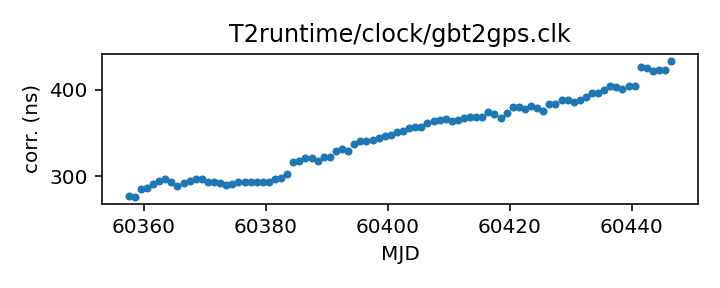
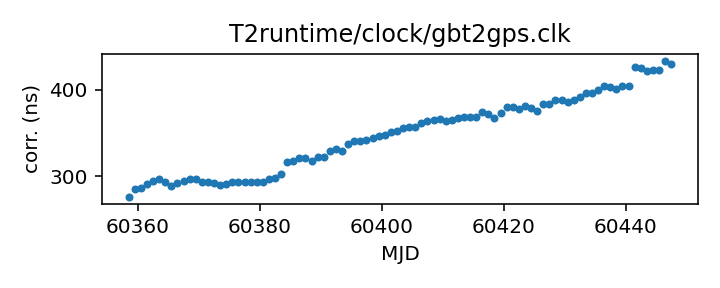
Routine gh-pages update from Github action Sat May 18 20:29:51 UTC 2024

diff --git a/status.md b/status.md
@@ -13,18 +13,18 @@ name of each clock file links to a page with more details.
 
 | Name | File | Corrections start | Corrections end | Last check date | Last check result 
 |:--- |:--- | --- | --- | --- |:--- 
-| [GPS to UTC](T2runtime/clock/gps2utc.clk.html) | `T2runtime/clock/gps2utc.clk` | 1993-01-01 MJD 48988.0 | 2024-04-29 MJD 60429.0 | 2024-05-17 | Unchanged 
-| [GPS to UTC (Combined Clock)](T2runtime/clock/gps2utc_cc.clk.html) | `T2runtime/clock/gps2utc_cc.clk` | 1993-01-01 MJD 48988.0 | 2024-04-29 MJD 60429.0 | 2024-05-17 | Unchanged 
-| [GPS to UTC (Corrected)](T2runtime/clock/gps2utc_c0p.clk.html) | `T2runtime/clock/gps2utc_c0p.clk` | 2010-12-29 MJD 55559.0 | 2024-04-29 MJD 60429.0 | 2024-05-17 | Unchanged 
-| [GBT](tempo/clock/time_gbt.dat.html) | `tempo/clock/time_gbt.dat` | 2000-12-31 MJD 51909.5 | 2024-05-16 MJD 60446.5 | 2024-05-17 | Updated 
-| [GBT (TEMPO2 converted from TEMPO)](T2runtime/clock/gbt2gps.clk.html) | `T2runtime/clock/gbt2gps.clk` | 2000-12-31 MJD 51909.5 | 2024-05-16 MJD 60446.5 | 2024-05-17 | Updated 
+| [GPS to UTC](T2runtime/clock/gps2utc.clk.html) | `T2runtime/clock/gps2utc.clk` | 1993-01-01 MJD 48988.0 | 2024-04-29 MJD 60429.0 | 2024-05-18 | Unchanged 
+| [GPS to UTC (Combined Clock)](T2runtime/clock/gps2utc_cc.clk.html) | `T2runtime/clock/gps2utc_cc.clk` | 1993-01-01 MJD 48988.0 | 2024-04-29 MJD 60429.0 | 2024-05-18 | Unchanged 
+| [GPS to UTC (Corrected)](T2runtime/clock/gps2utc_c0p.clk.html) | `T2runtime/clock/gps2utc_c0p.clk` | 2010-12-29 MJD 55559.0 | 2024-04-29 MJD 60429.0 | 2024-05-18 | Unchanged 
+| [GBT](tempo/clock/time_gbt.dat.html) | `tempo/clock/time_gbt.dat` | 2000-12-31 MJD 51909.5 | 2024-05-17 MJD 60447.5 | 2024-05-18 | Updated 
+| [GBT (TEMPO2 converted from TEMPO)](T2runtime/clock/gbt2gps.clk.html) | `T2runtime/clock/gbt2gps.clk` | 2000-12-31 MJD 51909.5 | 2024-05-17 MJD 60447.5 | 2024-05-18 | Updated 
 | [Jodrell Bank](T2runtime/clock/jb2gps.clk.html) | `T2runtime/clock/jb2gps.clk` | 2006-10-13 MJD 54021.4 | 2023-12-04 MJD 60282.0 | 2024-05-17 | Unchanged 
 | [Jodrell Bank Roach](T2runtime/clock/jbroach2jb.clk.html) | `T2runtime/clock/jbroach2jb.clk` | 2006-10-13 MJD 54021.4 | 2018-03-20 MJD 58197.6 | 2024-05-17 | Unchanged 
 | [Jodrell Bank DFB](T2runtime/clock/jbdfb2jb.clk.html) | `T2runtime/clock/jbdfb2jb.clk` | 2006-10-13 MJD 54021.4 | 2017-05-11 MJD 57884.0 | 2024-05-17 | Unchanged 
 | [Meerkat (observatory)](T2runtime/clock/mk2utc_observatory.clk.html) | `T2runtime/clock/mk2utc_observatory.clk` | 2019-01-01 MJD 58484.0 | 2024-04-24 MJD 60425.0 | 2024-05-17 | Unchanged 
-| [Leap seconds](tempo/clock/leap.sec.html) | `tempo/clock/leap.sec` | 1972-07-01 MJD 41499.0 | 2017-01-01 MJD 57754.0 | 2024-05-17 | Unchanged 
-| [UT1 table](tempo/clock/ut1.dat.html) | `tempo/clock/ut1.dat` | 1973-01-02 MJD 41684.0 | 2025-05-24 MJD 60819.0 | 2024-05-17 | Unchanged 
-| [UT1 table](T2runtime/clock/ut1.dat.html) | `T2runtime/clock/ut1.dat` | 1973-01-02 MJD 41684.0 | 2025-05-24 MJD 60819.0 | 2024-05-17 | Updated 
+| [Leap seconds](tempo/clock/leap.sec.html) | `tempo/clock/leap.sec` | 1972-07-01 MJD 41499.0 | 2017-01-01 MJD 57754.0 | 2024-05-18 | Unchanged 
+| [UT1 table](tempo/clock/ut1.dat.html) | `tempo/clock/ut1.dat` | 1973-01-02 MJD 41684.0 | 2025-05-24 MJD 60819.0 | 2024-05-18 | Unchanged 
+| [UT1 table](T2runtime/clock/ut1.dat.html) | `T2runtime/clock/ut1.dat` | 1973-01-02 MJD 41684.0 | 2025-05-24 MJD 60819.0 | 2024-05-18 | Unchanged 
 
 
 

diff --git a/T2runtime/clock/gbt2gps.clk.md b/T2runtime/clock/gbt2gps.clk.md
@@ -23,14 +23,13 @@ If questions arise about the conversion, contact Anne Archibald
 | Format | tempo2 |
 | Bogus last correction | False |
 | Clock file start | 2000-12-31 MJD 51909.5 |
-| Clock file end | 2024-05-16 MJD 60446.5 |
+| Clock file end | 2024-05-17 MJD 60447.5 |
 | Update interval (days) | 1 |
-| Last update attempt | 2024-05-17 |
+| Last update attempt | 2024-05-18 |
 | Last update result | Updated |
 
 Log entries from the last few update attempts:
 ```
-2024-04-20 20:29:22.594 - Validation failed: New version of T2runtime/clock/gbt2gps.clk clock corrections differ from old version where they overlap in 11 places
 2024-04-21 20:29:25.527 - Validation failed: New version of T2runtime/clock/gbt2gps.clk clock corrections differ from old version where they overlap in 11 places
 2024-05-10 20:29:32.718 - Validation failed: New version of T2runtime/clock/gbt2gps.clk clock corrections differ from old version where they overlap in 11 places
 2024-05-11 20:29:31.281 - Validation failed: New version of T2runtime/clock/gbt2gps.clk clock corrections differ from old version where they overlap in 11 places
@@ -40,12 +39,13 @@ Log entries from the last few update attempts:
 2024-05-15 20:30:39.614 - Validation failed: New version of T2runtime/clock/gbt2gps.clk clock corrections differ from old version where they overlap in 11 places
 2024-05-16 20:29:39.594 - Validation failed: New version of T2runtime/clock/gbt2gps.clk clock corrections differ from old version where they overlap in 11 places
 2024-05-17 20:29:38.159 - Updated
+2024-05-18 20:29:23.913 - Updated
 ```
 [Full log](https://raw.githubusercontent.com/ipta/pulsar-clock-corrections/main/log/T2runtime/clock/gbt2gps.clk.log)
 
 Leading comments from clock file:
 
-    # This file was automatically converted from tempo/clock/time_gbt.dat on 2024-05-17 20:29:38.105
+    # This file was automatically converted from tempo/clock/time_gbt.dat on 2024-05-18 20:29:23.852
 
 
 

diff --git a/tempo/clock/time_gbt.dat.md b/tempo/clock/time_gbt.dat.md
@@ -31,14 +31,13 @@ If questions arise, contact Ryan S. Lynch <rlynch@nrao.edu>.
 | Format | tempo |
 | Bogus last correction | False |
 | Clock file start | 2000-12-31 MJD 51909.5 |
-| Clock file end | 2024-05-16 MJD 60446.5 |
+| Clock file end | 2024-05-17 MJD 60447.5 |
 | Update interval (days) | 1 |
-| Last update attempt | 2024-05-17 |
+| Last update attempt | 2024-05-18 |
 | Last update result | Updated |
 
 Log entries from the last few update attempts:
 ```
-2024-04-20 20:29:22.532 - Updated
 2024-04-21 20:29:25.467 - Updated
 2024-05-10 20:29:32.083 - Updated
 2024-05-11 20:29:31.221 - Updated
@@ -48,6 +47,7 @@ Log entries from the last few update attempts:
 2024-05-15 20:30:39.553 - Failed to download: HTTP Error 403: Forbidden
 2024-05-16 20:29:39.532 - Updated
 2024-05-17 20:29:37.638 - Updated
+2024-05-18 20:29:23.850 - Updated
 ```
 [Full log](https://raw.githubusercontent.com/ipta/pulsar-clock-corrections/main/log/tempo/clock/time_gbt.dat.log)
 

diff --git a/T2runtime/clock/gps2utc_c0p.clk.md b/T2runtime/clock/gps2utc_c0p.clk.md
@@ -30,12 +30,11 @@ about the BIPM's published corrections, contact <tai@bipm.org>.
 | Clock file start | 2010-12-29 MJD 55559.0 |
 | Clock file end | 2024-04-29 MJD 60429.0 |
 | Update interval (days) | 1 |
-| Last update attempt | 2024-05-17 |
+| Last update attempt | 2024-05-18 |
 | Last update result | Unchanged |
 
 Log entries from the last few update attempts:
 ```
-2024-04-20 20:29:22.014 - Unchanged
 2024-04-21 20:29:25.026 - Unchanged
 2024-05-10 20:29:31.206 - Unchanged
 2024-05-11 20:29:30.846 - Unchanged
@@ -45,6 +44,7 @@ Log entries from the last few update attempts:
 2024-05-15 20:30:39.213 - Unchanged
 2024-05-16 20:29:38.905 - Unchanged
 2024-05-17 20:29:36.800 - Unchanged
+2024-05-18 20:29:23.449 - Unchanged
 ```
 [Full log](https://raw.githubusercontent.com/ipta/pulsar-clock-corrections/main/log/T2runtime/clock/gps2utc_c0p.clk.log)
 

diff --git a/T2runtime/clock/gps2utc_cc.clk.md b/T2runtime/clock/gps2utc_cc.clk.md
@@ -29,12 +29,11 @@ about the BIPM's published corrections, contact <tai@bipm.org>.
 | Clock file start | 1993-01-01 MJD 48988.0 |
 | Clock file end | 2024-04-29 MJD 60429.0 |
 | Update interval (days) | 1 |
-| Last update attempt | 2024-05-17 |
+| Last update attempt | 2024-05-18 |
 | Last update result | Unchanged |
 
 Log entries from the last few update attempts:
 ```
-2024-04-20 20:29:22.005 - Unchanged
 2024-04-21 20:29:25.017 - Unchanged
 2024-05-10 20:29:31.197 - Unchanged
 2024-05-11 20:29:30.837 - Unchanged
@@ -44,6 +43,7 @@ Log entries from the last few update attempts:
 2024-05-15 20:30:39.204 - Unchanged
 2024-05-16 20:29:38.896 - Unchanged
 2024-05-17 20:29:36.791 - Unchanged
+2024-05-18 20:29:23.440 - Unchanged
 ```
 [Full log](https://raw.githubusercontent.com/ipta/pulsar-clock-corrections/main/log/T2runtime/clock/gps2utc_cc.clk.log)
 

diff --git a/T2runtime/clock/gps2utc.clk.md b/T2runtime/clock/gps2utc.clk.md
@@ -32,12 +32,11 @@ about the BIPM's published corrections, contact <tai@bipm.org>.
 | Clock file start | 1993-01-01 MJD 48988.0 |
 | Clock file end | 2024-04-29 MJD 60429.0 |
 | Update interval (days) | 1 |
-| Last update attempt | 2024-05-17 |
+| Last update attempt | 2024-05-18 |
 | Last update result | Unchanged |
 
 Log entries from the last few update attempts:
 ```
-2024-04-20 20:29:21.980 - Unchanged
 2024-04-21 20:29:24.992 - Unchanged
 2024-05-10 20:29:31.172 - Unchanged
 2024-05-11 20:29:30.812 - Unchanged
@@ -47,6 +46,7 @@ Log entries from the last few update attempts:
 2024-05-15 20:30:39.179 - Unchanged
 2024-05-16 20:29:38.870 - Unchanged
 2024-05-17 20:29:36.765 - Unchanged
+2024-05-18 20:29:23.415 - Unchanged
 ```
 [Full log](https://raw.githubusercontent.com/ipta/pulsar-clock-corrections/main/log/T2runtime/clock/gps2utc.clk.log)
 

diff --git a/tempo/clock/leap.sec.md b/tempo/clock/leap.sec.md
@@ -21,12 +21,11 @@ If there are any questions, contact Anne Archibald
 | File start | 1972-07-01 MJD 41499.0 |
 | File end | 2017-01-01 MJD 57754.0 |
 | Update interval (days) | 0 |
-| Last update attempt | 2024-05-17 |
+| Last update attempt | 2024-05-18 |
 | Last update result | Unchanged |
 
 Log entries from the last few update attempts:
 ```
-2024-04-20 20:29:22.624 - Unchanged
 2024-04-21 20:29:25.556 - Unchanged
 2024-05-10 20:29:51.753 - Unchanged
 2024-05-11 20:29:31.311 - Unchanged
@@ -36,5 +35,6 @@ Log entries from the last few update attempts:
 2024-05-15 20:30:39.643 - Unchanged
 2024-05-16 20:29:39.623 - Unchanged
 2024-05-17 20:29:52.604 - Unchanged
+2024-05-18 20:29:23.942 - Unchanged
 ```
 [Full log](https://raw.githubusercontent.com/ipta/pulsar-clock-corrections/main/log/tempo/clock/leap.sec.log)

diff --git a/tempo/clock/ut1.dat.md b/tempo/clock/ut1.dat.md
@@ -30,12 +30,11 @@ If there are any questions, contact Anne Archibald
 | File start | 1973-01-02 MJD 41684.0 |
 | File end | 2025-05-24 MJD 60819.0 |
 | Update interval (days) | 0 |
-| Last update attempt | 2024-05-17 |
+| Last update attempt | 2024-05-18 |
 | Last update result | Unchanged |
 
 Log entries from the last few update attempts:
 ```
-2024-04-20 20:29:31.597 - Unchanged
 2024-04-21 20:29:33.784 - Unchanged
 2024-05-10 20:30:03.485 - Updated
 2024-05-11 20:29:39.026 - Unchanged
@@ -45,5 +44,6 @@ Log entries from the last few update attempts:
 2024-05-15 20:30:48.501 - Unchanged
 2024-05-16 20:29:47.997 - Updated
 2024-05-17 20:30:06.468 - Unchanged
+2024-05-18 20:29:31.266 - Unchanged
 ```
 [Full log](https://raw.githubusercontent.com/ipta/pulsar-clock-corrections/main/log/tempo/clock/ut1.dat.log)

diff --git a/T2runtime/clock/ut1.dat.md b/T2runtime/clock/ut1.dat.md
@@ -30,12 +30,13 @@ If there are any questions, contact Anne Archibald
 | File start | 1973-01-02 MJD 41684.0 |
 | File end | 2025-05-24 MJD 60819.0 |
 | Update interval (days) | 0 |
-| Last update attempt | 2024-05-17 |
-| Last update result | Updated |
+| Last update attempt | 2024-05-18 |
+| Last update result | Unchanged |
 
 Log entries from the last few update attempts:
 ```
 2024-05-17 20:30:06.468 - Initialized
 2024-05-17 20:30:06.526 - Updated
+2024-05-18 20:29:31.324 - Unchanged
 ```
 [Full log](https://raw.githubusercontent.com/ipta/pulsar-clock-corrections/main/log/T2runtime/clock/ut1.dat.log)
